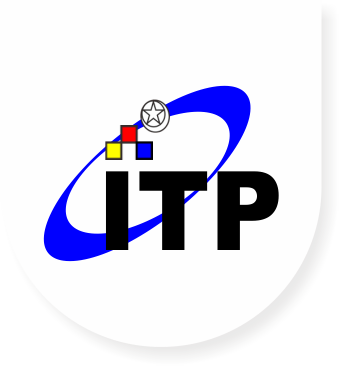
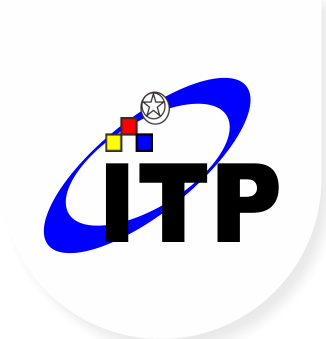
update

Changed region(s): [[0.1227, 0.2065, 0.8589, 0.767]]

diff --git a/resources/views/welcome.blade.php b/resources/views/welcome.blade.php
@@ -814,9 +814,8 @@
         <!-- Navigation -->
         <nav class="fixed top-0 left-0 w-full bg-white bg-opacity-90 backdrop-blur-md shadow-sm z-50">
             <div class="container flex justify-between items-center py-4">
-                <a href="#" class="text-2xl font-bold text-gray-900">
-                    <span style="background: linear-gradient(135deg, var(--primary) 0%, var(--secondary) 100%); -webkit-background-clip: text; -webkit-text-fill-color: transparent;">SIPROKER</span>
-                </a>
+            <img src="{{ asset('asset/itp.png') }}" alt="Logo" style="width: 50px;" >
+       
                 
                 @if (Route::has('login'))
                     <div class="flex items-center gap-4 mb-4 mt-4">

diff --git a/resources/views/partials/sidebar.blade.php b/resources/views/partials/sidebar.blade.php
@@ -3,10 +3,10 @@
 
     <!-- Sidebar - Brand -->
     <a class="sidebar-brand d-flex align-items-center justify-content-center" href="{{ route('dashboard') }}">
-        <div class="sidebar-brand-icon rotate-n-15">
-            <i class="fas fa-university"></i>
+        <div class="sidebar-brand-icon">
+            <img src="{{ asset('asset/itp.png') }}" alt="Logo" style="width: 50px; height: 50px;">
         </div>
-        <div class="sidebar-brand-text mx-3">Admin Panel</div>
+        <div class="sidebar-brand-text mx-3" style="white-space:nowrap">Admin Panel</div>
     </a>
 
     <!-- Divider -->
